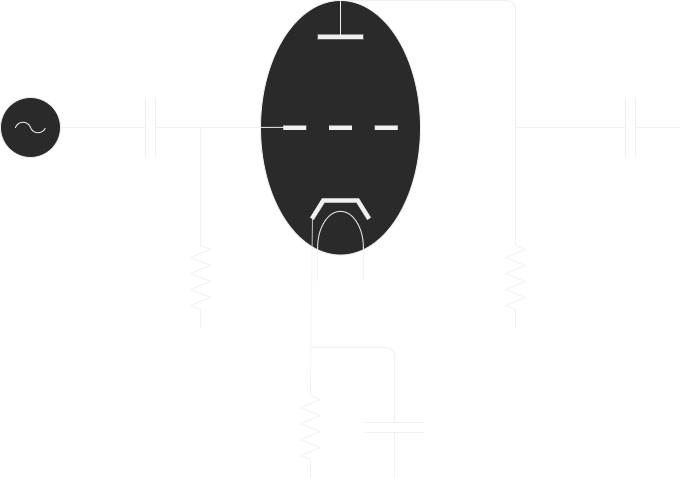
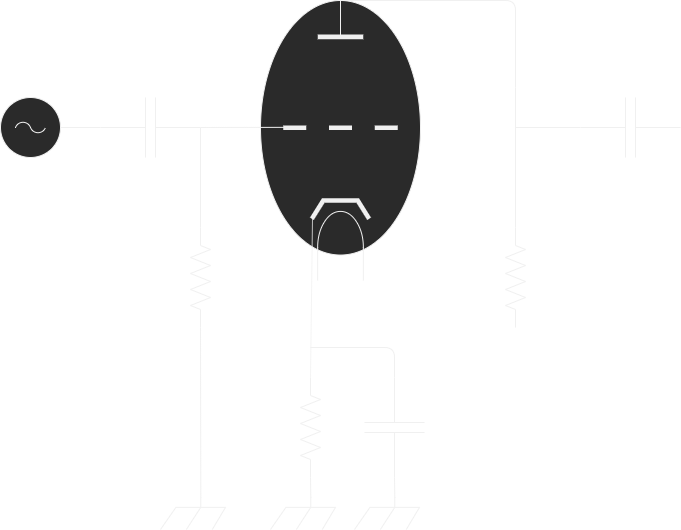
note

diff --git a/note_RF.md b/note_RF.md
@@ -511,3 +511,12 @@ $$ \rm r(\rho, \phi, s) = \bm R(s) + \rho r_b(\phi, s) \{ \bm n(s)\cos(\phi) + \
   - 内部抵抗 $R_i$
 
 ![pic](./img/Triode_001.png)
+
+- 格子電圧は、陰極とEarthの間に抵抗をつなぎ
+  - 電圧降下分で格子バイアス電圧を自動でかける
+  - 抵抗だけでは交流信号電流の電圧降下で入力入力信号電圧を打ち消すように作用する
+  - 並列でコンデンサをつなぐ
+  - 交流的には接地電位になるようにする
+- 格子電極端子が電位的に浮いている場合、動作不安定になることが多い
+  - 格子電流の流れる回路を形成
+  - 入力抵抗くを高く保ったままにするため高い格子抵抗を加える
